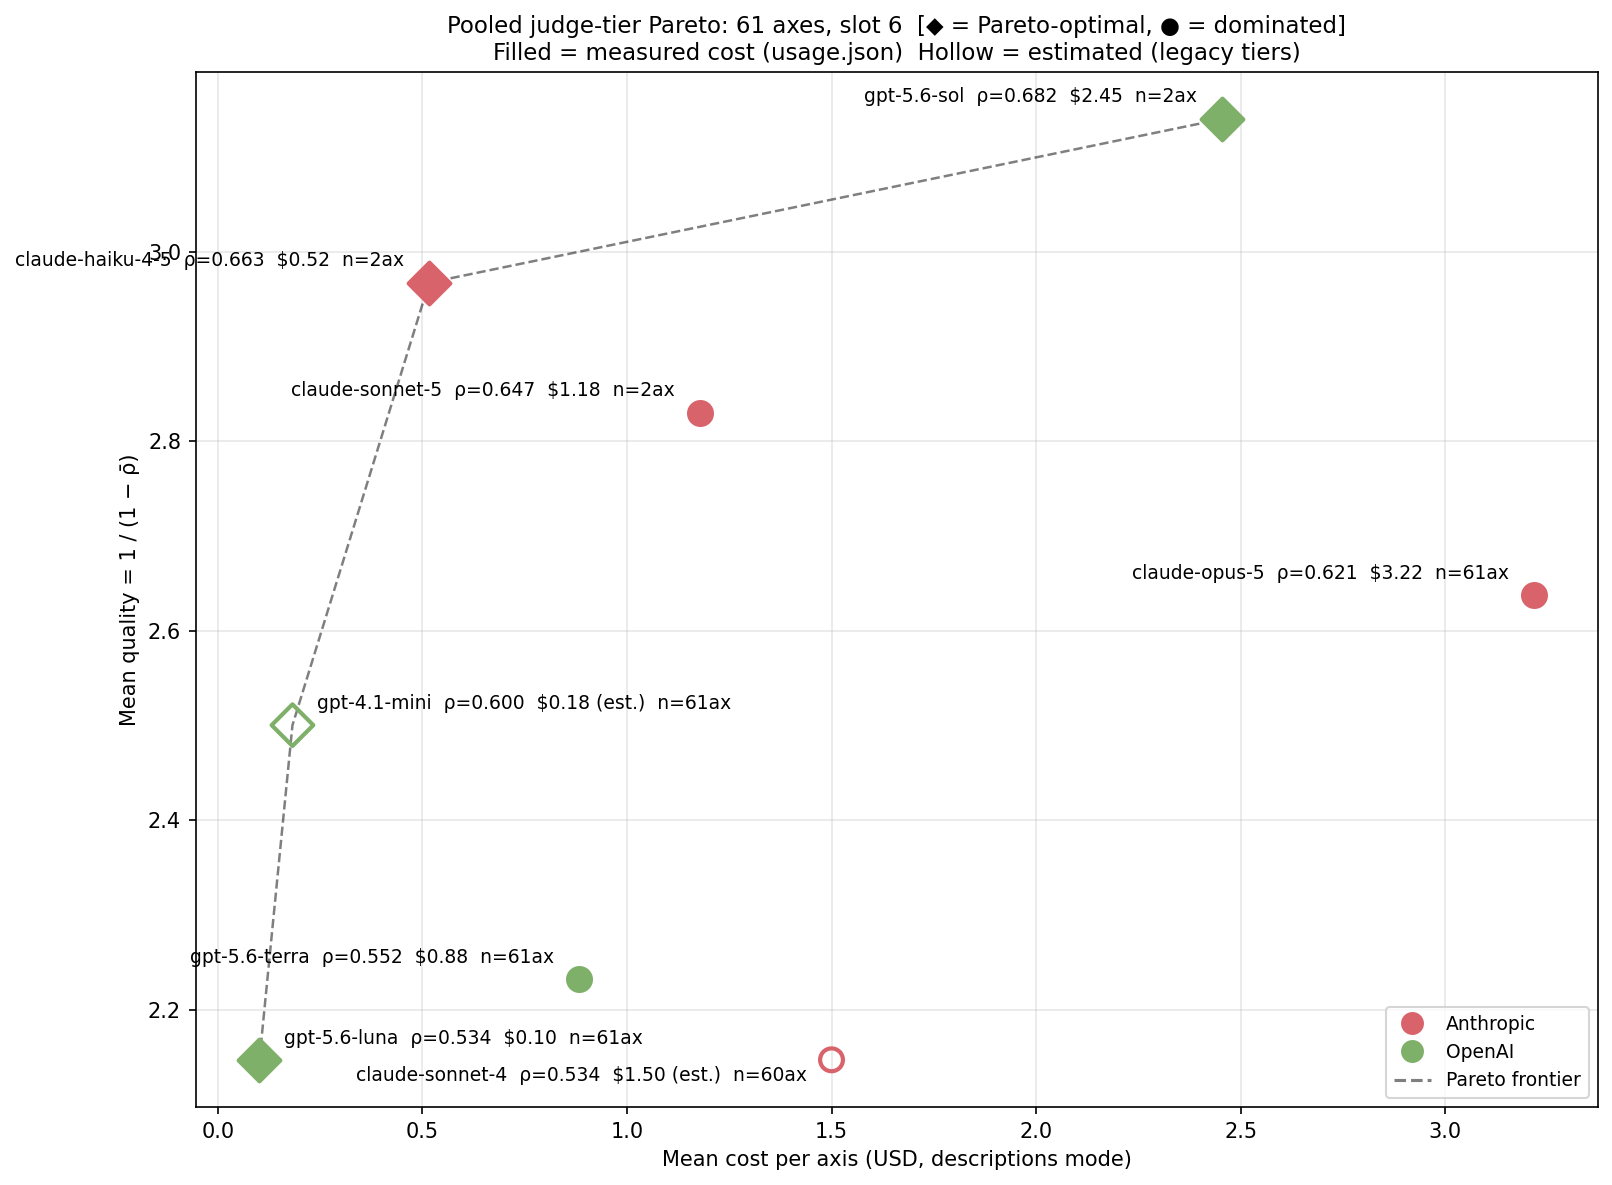
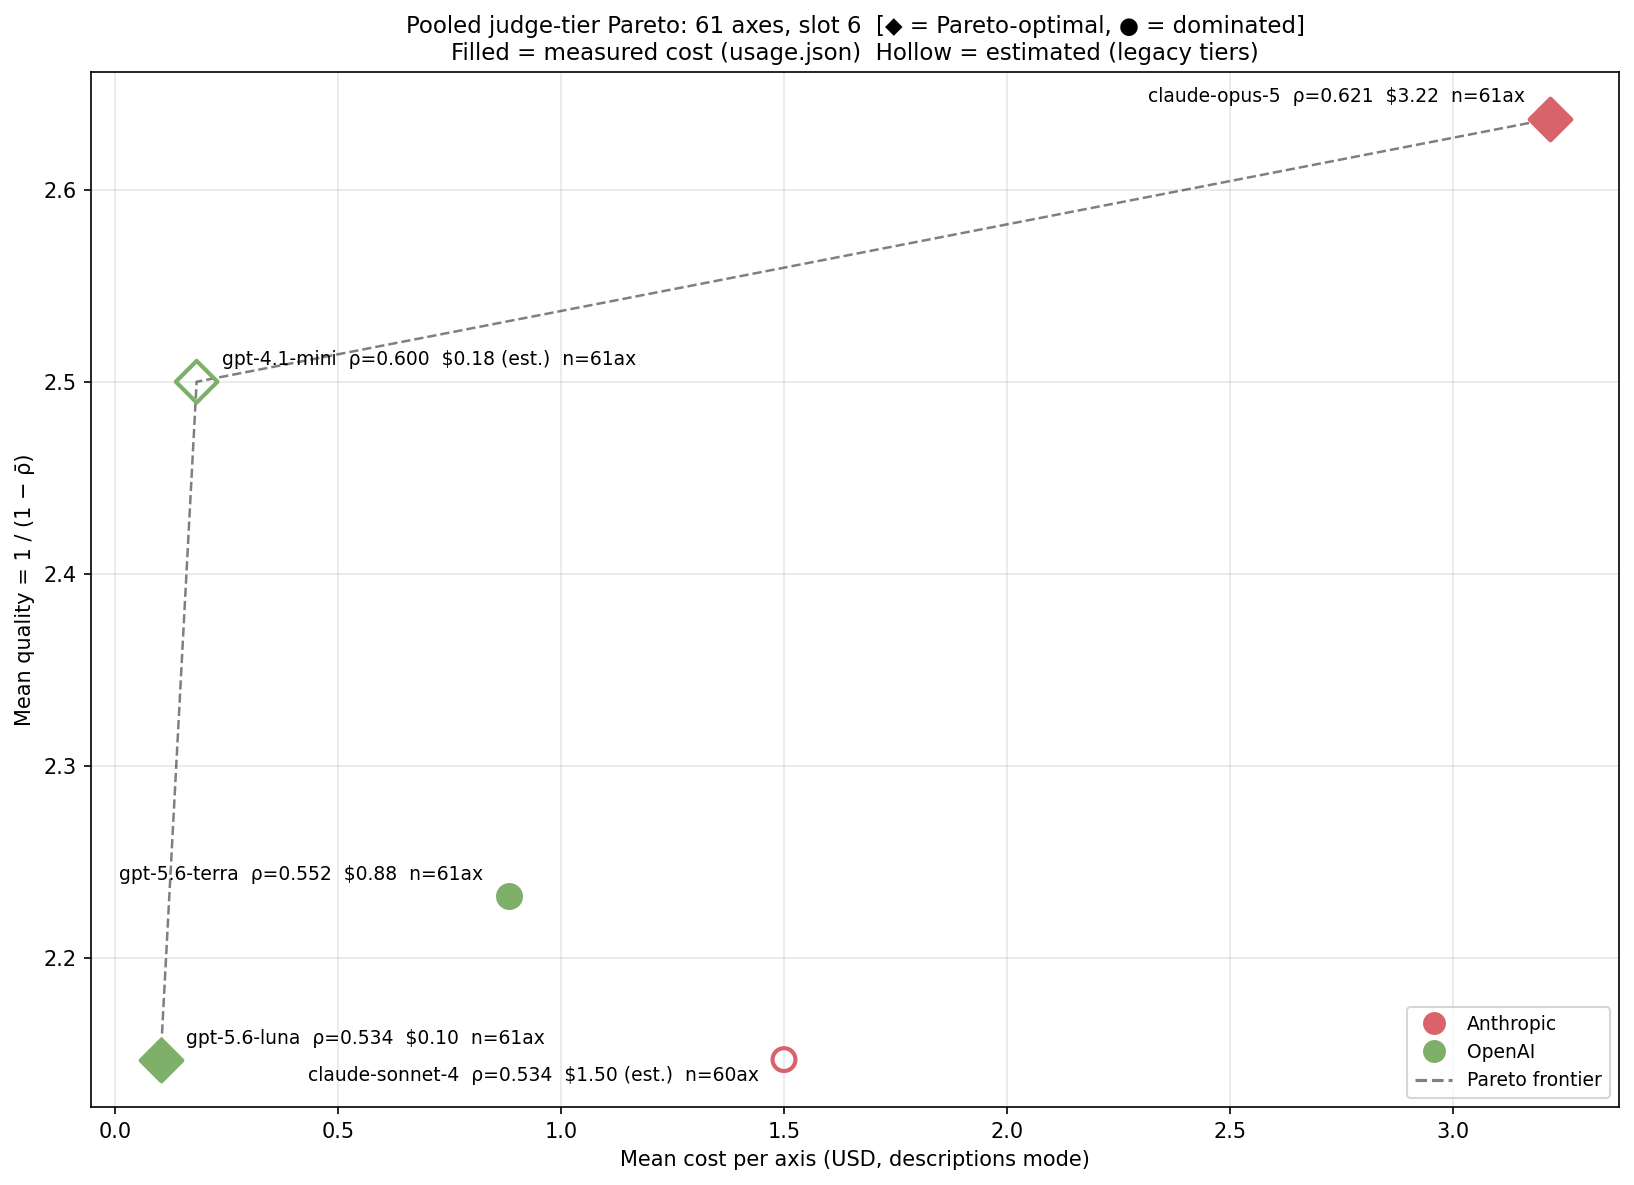
Pareto plot: add --min_axes filter to exclude low-n models from comparison
Mixing n=2 (haiku/sol/sonnet-5 on 2 easy axes) with n=61 inflated their
apparent rho since angel/demon and decisive/indecisive are among the
highest-rho axes in the corpus. --min_axes 60 restricts to models with
full coverage for a like-for-like comparison.

diff --git a/results_analysis/judge_tier_cost_plot_pooled.py b/results_analysis/judge_tier_cost_plot_pooled.py
@@ -290,6 +290,11 @@ def main() -> None:
     parser.add_argument("--slot", type=int, default=6)
     parser.add_argument("--no_legacy", action="store_true",
                         help="Skip legacy model overlay entirely")
+    parser.add_argument("--min_axes", type=int, default=None,
+                        help="Exclude models evaluated on fewer than this many axes. "
+                             "Use to avoid mixing low-n points (e.g. n=2) with high-n "
+                             "points (e.g. n=61) on the same Pareto plot, since rhos "
+                             "are not comparable across different axis sets.")
     parser.add_argument("--output", type=str, required=True)
     args = parser.parse_args()
 
@@ -334,6 +339,15 @@ def main() -> None:
         sys.exit(1)
 
     agg = aggregate(per_model)
+
+    if args.min_axes is not None:
+        excluded = {m: d for m, d in agg.items() if d["n_axes"] < args.min_axes}
+        agg = {m: d for m, d in agg.items() if d["n_axes"] >= args.min_axes}
+        if excluded:
+            print(f"\nExcluded (n_axes < {args.min_axes}):", file=sys.stderr)
+            for m, d in sorted(excluded.items(), key=lambda kv: kv[1]["n_axes"]):
+                print(f"  {m:30s}  n_axes={d['n_axes']}  mean_rho={d['mean_rho']:.4f}",
+                      file=sys.stderr)
 
     print(f"\nAggregated results ({args.slot=}):", file=sys.stderr)
     for model, d in sorted(agg.items(), key=lambda kv: -kv[1]["mean_rho"]):
